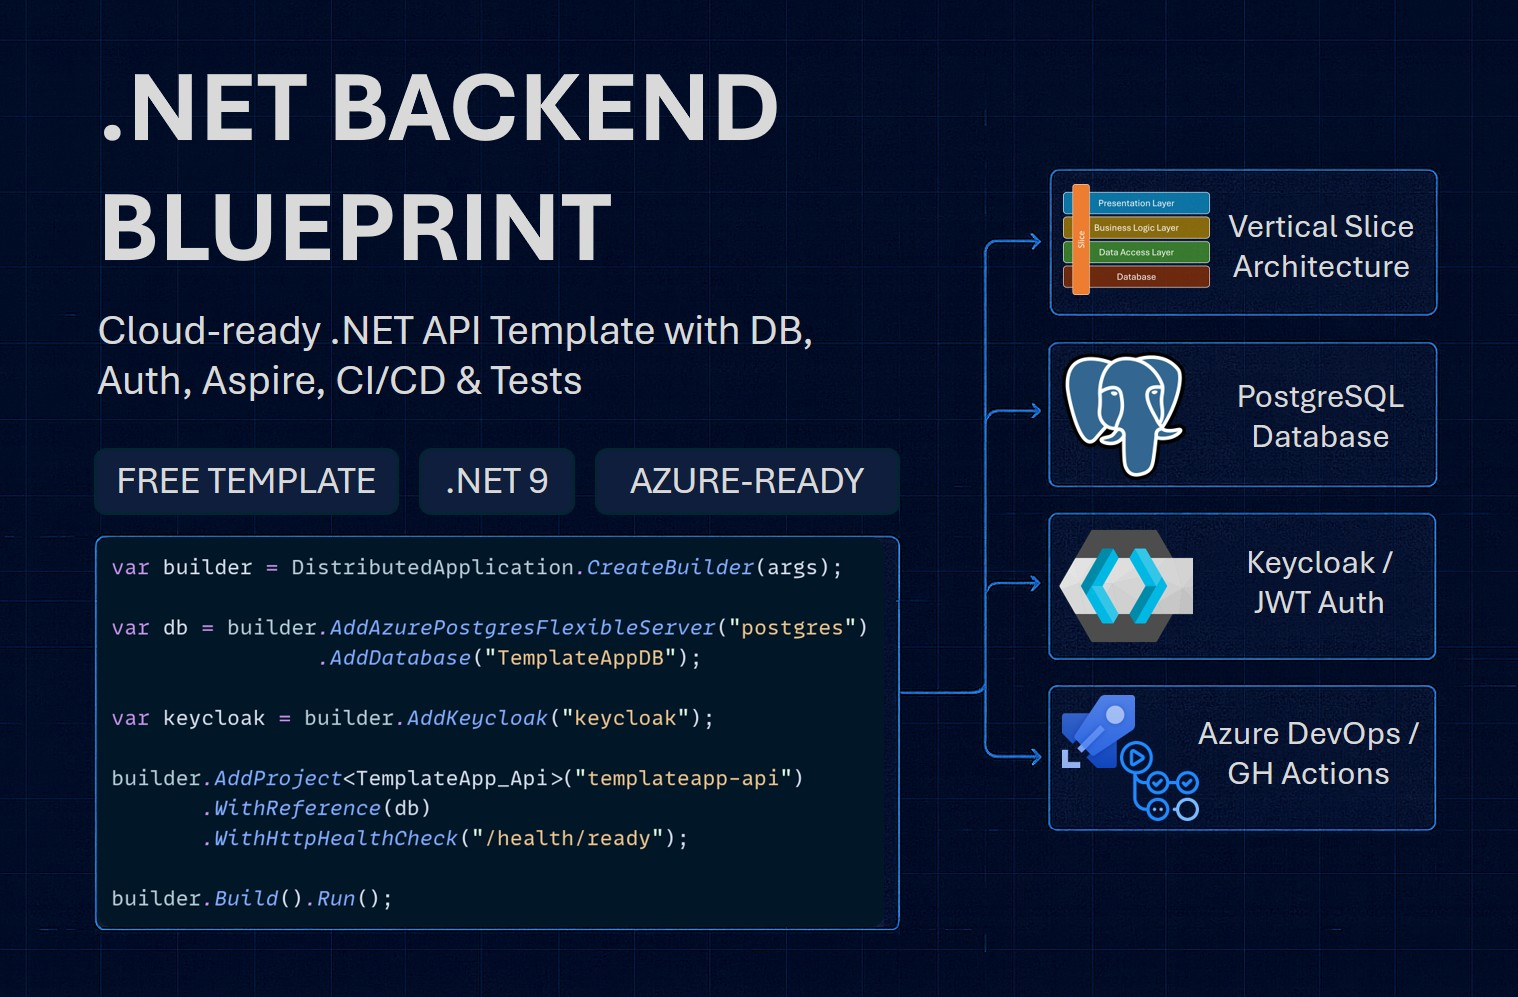
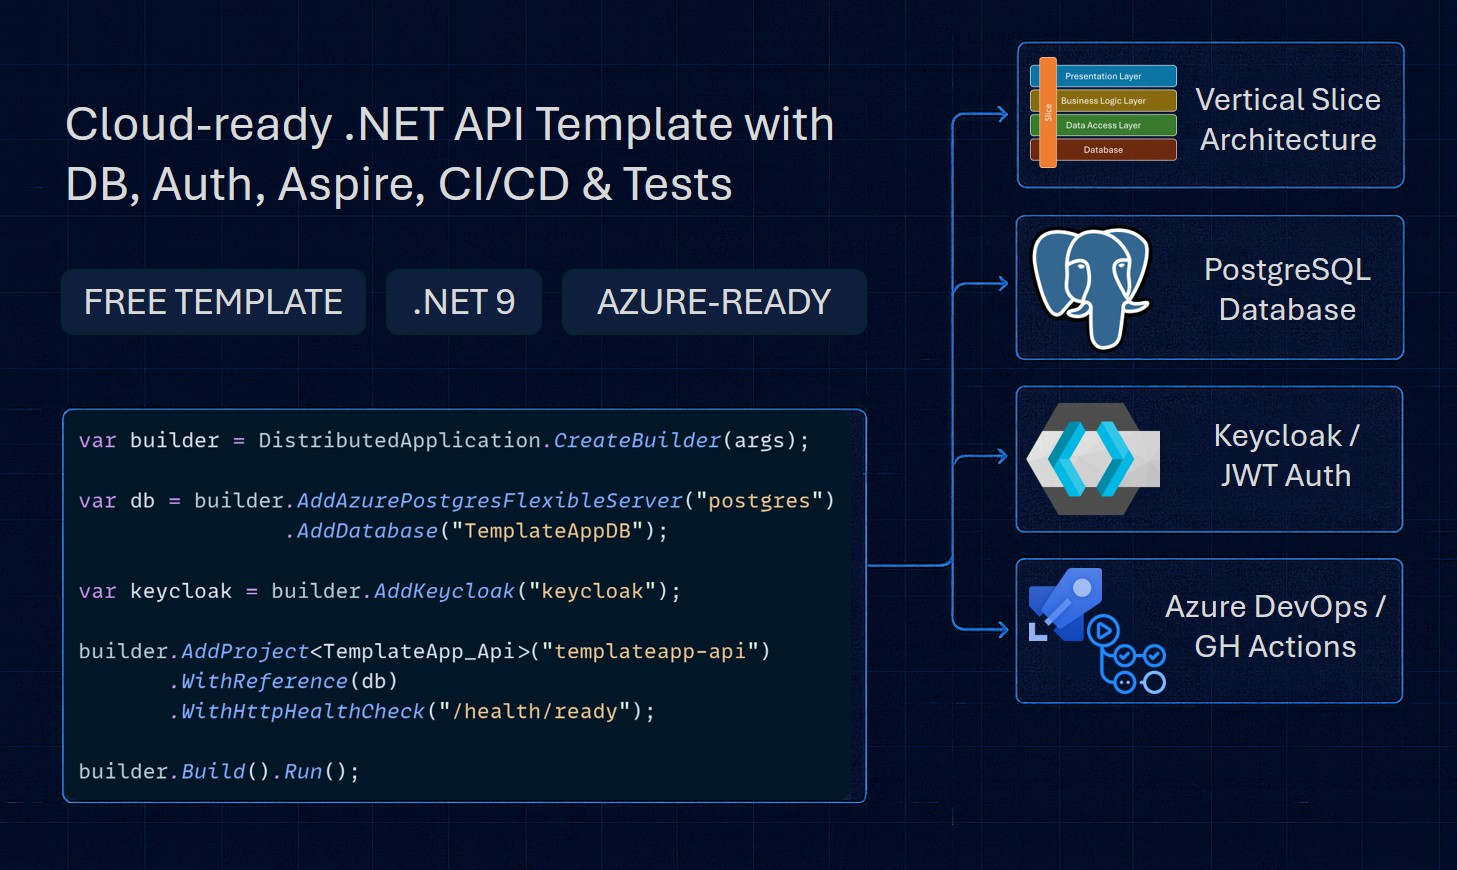
Revamp .NET Backend Blueprint section with new layout and updated images

diff --git a/blueprint.html b/blueprint.html
@@ -163,36 +163,31 @@
     <!-- Header -->
     <header id="header" class="header" style="padding: 1rem;">
         <div class="container">
-            <div class="row justify-content-center mb-4 align-items-center">
-                <div class="col-lg-6 order-lg-2">
-                    <div class="image-container text-center">
-                        <img class="img-fluid rounded" src="images/dotnet-backend-blueprint-hero.jpg"
-                            alt=".NET Backend Blueprint Template">
-                    </div>
+            <!-- Title Section -->
+            <div class="row justify-content-center mb-4">
+                <div class="col-lg-8 text-center">
+                    <h1 class="h2-heading text-white" style="font-size: 3.5rem; line-height: 1.2;">
+                        Free .NET Backend Blueprint
+                    </h1>
                 </div>
-                <div class="col-lg-6 order-lg-1">
-                    <div class="container" style="text-align: left;">
-                        <div class="row mt-4">
-                            <div class="col">
-                                <div class="text-container">
-                                    <h1 class="h2-heading text-white"
-                                        style="text-align: left; font-size: 3.2rem; line-height: 1.2;">
-                                        Free .NET Backend Blueprint
-                                    </h1>
-                                    <p class="line-spaced-paragraph text-white">
-                                        Skip weeks of setup and start delivering value on day 1 with a production-ready
-                                        .NET backend template.
-                                    </p>
-                                </div>
-                            </div>
-                        </div>
-                        <div class="row justify-content-center">
-                            <div class="col">
-                                <script async data-uid="ede3657da9"
-                                    src="https://juliocasal.kit.com/ede3657da9/index.js"></script>
-                            </div>
-                        </div>
-                    </div>
+            </div>
+
+            <!-- Image Section -->
+            <div class="row justify-content-center mb-4">
+                <div class="col-lg-10 text-center">
+                    <img class="img-fluid rounded" src="images/dotnet-backend-blueprint-hero.jpg"
+                        alt=".NET Backend Blueprint Template">
+                </div>
+            </div>
+
+            <!-- Description and CTA Section -->
+            <div class="row justify-content-center">
+                <div class="col-lg-8 text-center">
+                    <p class="line-spaced-paragraph text-white mb-4">
+                        Skip weeks of setup and start delivering value on day 1 with a production-ready
+                        .NET backend template.
+                    </p>
+                    <script async data-uid="ede3657da9" src="https://juliocasal.kit.com/ede3657da9/index.js"></script>
                 </div>
             </div>
         </div>
